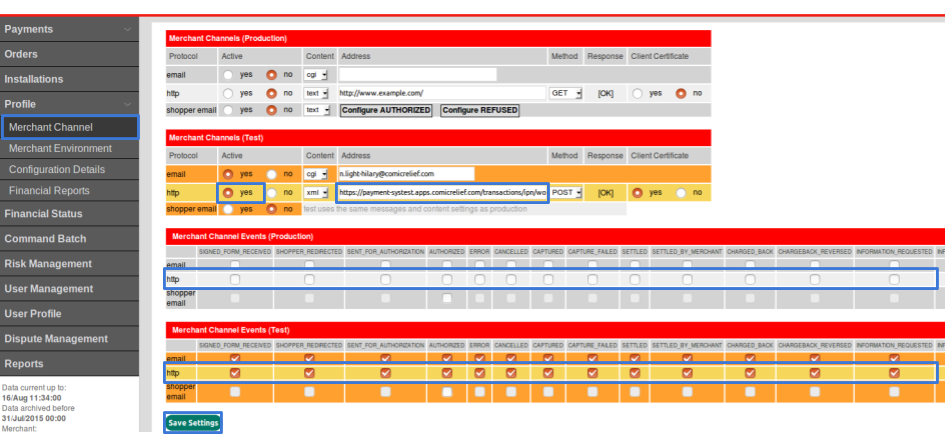
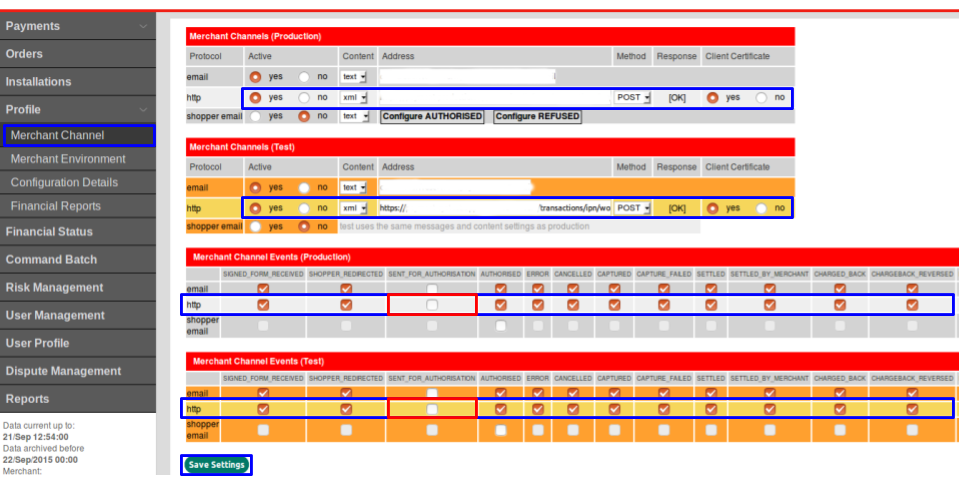
Update docs to reflect the current situation with `SENT_FOR_AUTHORISATION` notifications and related advice, and remove dev warning as the adapter is now in production use

diff --git a/README.md b/README.md
@@ -1,7 +1,5 @@
 # Omnipay: Worldpay Hosted Corporate Gateway (XML)
 
-_Caution!_ This fork from teaandcode/omnipay-worldpay-xml is in active development, and not yet widely tested.
-
 **WorldPay Hosted driver for the Omnipay PHP payment processing library**
 
 [Omnipay](https://github.com/omnipay/omnipay) is a framework agnostic,
@@ -42,11 +40,15 @@ To set another one, use `PurchaseRequest::setDescription()`.
 
 ## Notification setup
 
-This library aims to be able to give sensible answers for `isValid()`, `isAuthorised()`, `isPending()` and `isCancelled()`, if you select every possible type on this screen:
+This library aims to be able to give sensible answers for `isValid()`, `isAuthorised()`, `isPending()` and `isCancelled()`, if you select almost every possible type on this screen:
 
 ![Notification setup](./docs/Notification%20setup.png "Notification setup")
 
-It's probably safest to tick everything you can, so as not to miss notifications you might care about.
+Generally it's good to tick everything you can, so as not to miss notifications you might care about.
+
+However we've had to **not tick _SENT_FOR_AUTHORISATION_** because of an apparent Worldpay bug that sends two _AUTHORISED_ notifications when this is selected, instead of sending the additional type.
+
+We have not yet had confirmation from Worldpay on whether this is expected to affect the production gateway or if it will be fixed, so it's safer not to enable this notification for now.
 
 ## Notification verification
 
